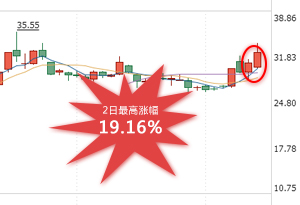
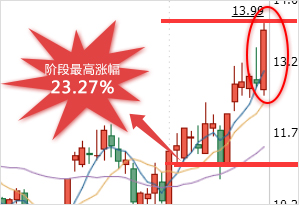
change the teacher stocks

diff --git a/app/static/js/teacher_stock.js b/app/static/js/teacher_stock.js
@@ -1,197 +1,112 @@
-import shaojunjie1 from '../img/stocks/shaojunjie1.jpg'
 import wuweiwei1 from '../img/stocks/wuweiwei1.jpg'
-import wuweiwei2 from '../img/stocks/wuweiwei2.jpg'
 import wuweiwei3 from '../img/stocks/wuweiwei3.jpg'
 import maxin1 from '../img/stocks/maxin1.jpg'
-import maxin2 from '../img/stocks/maxin2.jpg'
 import maxin3 from '../img/stocks/maxin3.jpg'
 import zhouyue1 from '../img/stocks/zhouyue1.jpg'
 import zhouyue2 from '../img/stocks/zhouyue2.jpg'
 
-let lvxiangzhao = [{
-    name: '汉王科技',
-    code: '002362',
-    result: '71.40%',
-    daySend: '2017.08.16',
-    day: '阶段',
-    dayCount: '阶段最高涨幅',
-    img: shaojunjie1
-}]
 
-//马鑫
-let maxin = [
-    {
-        name: '世荣兆业',
-        code: '002016',
-        result: '21.68%',
-        daySend: '2017.11.20',
-        day:'9',
-        dayCount: '九日最高涨幅',
-        img: maxin3
-    }/*,
-    {
-        name: '南卫股份',
-        code: '603880',
-        result: '19.16%',
-        daySend: '2017.10.12',
-        day: '2',
-        dayCount: '二日最高涨幅',
-        img: maxin1
-    }*/
-]
-let suxuepeng = [{
-    name: '陕西黑猫',
-    code: '601015',
-    result: '20.75%',
-    daySend: '2017.09.07',
-    day: 4,
-    dayCount: '四日最高涨幅',
-    img: shaojunjie1
-}]
 
 //吴伟伟
 let wuweiwei = [
-    {
-        name: '世运电路',
-        code: '603920',
-        result: '14.77%',
-        daySend: '2017.11.10',
-        day:'2',
-        dayCount: '两日最高涨幅',
-        img:wuweiwei3
-    }/*,
-    {
-        name: '嘉诚国际',
-        code: '603535',
-        result: '28.95%',
-        daySend: '2017.10.11',
-        day: '9',
-        dayCount: '九日最高涨幅',
-        img: wuweiwei2
-    },
-    {
-        name: '乐心医疗',
-        code: '300562',
-        result: '63.54%',
-        daySend: '2017.09.05',
-        day: '阶段',
-        dayCount: '阶段最高涨幅',
-        img: wuweiwei1
-    }*/
+  {
+    name: '中环股份',
+    code: '002129',
+    result: '20.56%',
+    daySend: '2017.12.06',
+    day: '阶段',
+    dayCount: '阶段最高涨幅',
+    img: wuweiwei1
+  },
+  {
+    name: '世运电路',
+    code: '603920',
+    result: '14.77%',
+    daySend: '2017.11.10',
+    day: '2',
+    dayCount: '两日最高涨幅',
+    img: wuweiwei3
+  }
 ]
-
-let yuliang = [{
-    name: '陕西黑猫',
-    code: '601015',
-    result: '20.75%',
-    daySend: '2017.09.07',
-    day: 4,
-    dayCount: '四日最高涨幅',
-    img: shaojunjie1
-}]
-let zhoukang = [{
-    name: '陕西黑猫',
-    code: '601015',
-    result: '20.75%',
-    daySend: '2017.09.07',
-    day: 4,
-    dayCount: '四日最高涨幅',
-    img: shaojunjie1
-}]
+//马鑫
+let maxin = [
+  {
+    name: '有研新材',
+    code: '600206',
+    result: '23.27%',
+    daySend: '2017.11.28',
+    day: '阶段',
+    dayCount: '阶段最高涨幅',
+    img: maxin1
+  },
+  {
+    name: '世荣兆业',
+    code: '002016',
+    result: '21.68%',
+    daySend: '2017.11.20',
+    day: '9',
+    dayCount: '九日最高涨幅',
+    img: maxin3
+  }
+]
 
 //周煜
 let zhouyu = [
-    {
-        name: '中国中车',
-        code: '601766',
-        result: '15.45%',
-        daySend: '2017.10.24',
-        day: '5',
-        dayCount: '五日最高涨幅',
-        img: zhouyue2
-    },
-    {
-        name: '士兰微',
-        code: '600460',
-        result: '24.84%',
-        daySend: '2017.09.28',
-        day: '3',
-        dayCount: '三日最高涨幅',
-        img: zhouyue1
-    }
+  {
+    name: '中国中车',
+    code: '601766',
+    result: '15.45%',
+    daySend: '2017.10.24',
+    day: '5',
+    dayCount: '五日最高涨幅',
+    img: zhouyue2
+  },
+  {
+    name: '士兰微',
+    code: '600460',
+    result: '24.84%',
+    daySend: '2017.09.28',
+    day: '3',
+    dayCount: '三日最高涨幅',
+    img: zhouyue1
+  }
 ]
 
-let nobody = [{
-    name: '陕西黑猫',
-    code: '601015',
-    result: '20.75%',
-    daySend: '2017.09.07',
-    day: 4,
-    dayCount: '四日最高涨幅',
-    img: shaojunjie1
-}]
-
-let shaojunjie = [{
-    name: '陕西黑猫',
-    code: '601012',
-    result: '20.75%',
-    daySend: '2017.09.07',
-    day: 4,
-    dayCount: '四日最高涨幅',
-    img: shaojunjie1
-}, {
-    name: '陕西黑猫',
-    code: '601011',
-    result: '20.75%',
-    daySend: '2017.09.07',
-    day: 4,
-    dayCount: '四日最高涨幅',
-    img: shaojunjie1
-}, {
-    name: '陕西黑猫',
-    code: '601015',
-    result: '20.75%',
-    daySend: '2017.09.07',
-    day: 4,
-    dayCount: '四日最高涨幅',
-    img: shaojunjie1
-}]
-
 export function stocks(name) {
-    switch (name) {
-        case '吴伟伟':
-            return wuweiwei
-        case '马鑫':
-            return maxin
-        case '周煜':
-            return zhouyu
-        default:
-            return []
-    }
+  switch (name) {
+    case '吴伟伟':
+      return wuweiwei
+    case '马鑫':
+      return maxin
+    case '周煜':
+      return zhouyu
+    default:
+      return []
+  }
 }
 
 export function ranks(name) {
-    switch (name) {
-        case '吴伟伟':
-            return 1
-        case '马鑫':
-            return 2
-        case '周煜':
-            return 3
-        default:
-            return 4
-    }
+  switch (name) {
+    case '吴伟伟':
+      return 1
+    case '马鑫':
+      return 2
+    case '周煜':
+      return 3
+    default:
+      return 4
+  }
 }
 
-export function recordNum(name){
-    switch (name) {
-        case '吴伟伟':
-            return 1
-        case '马鑫':
-            return 0
-        case '周煜':
-            return 0
-        default:
-            return 0
-    }
+export function recordNum(name) {
+  switch (name) {
+    case '吴伟伟':
+      return 1
+    case '马鑫':
+      return 0
+    case '周煜':
+      return 0
+    default:
+      return 0
+  }
 }
